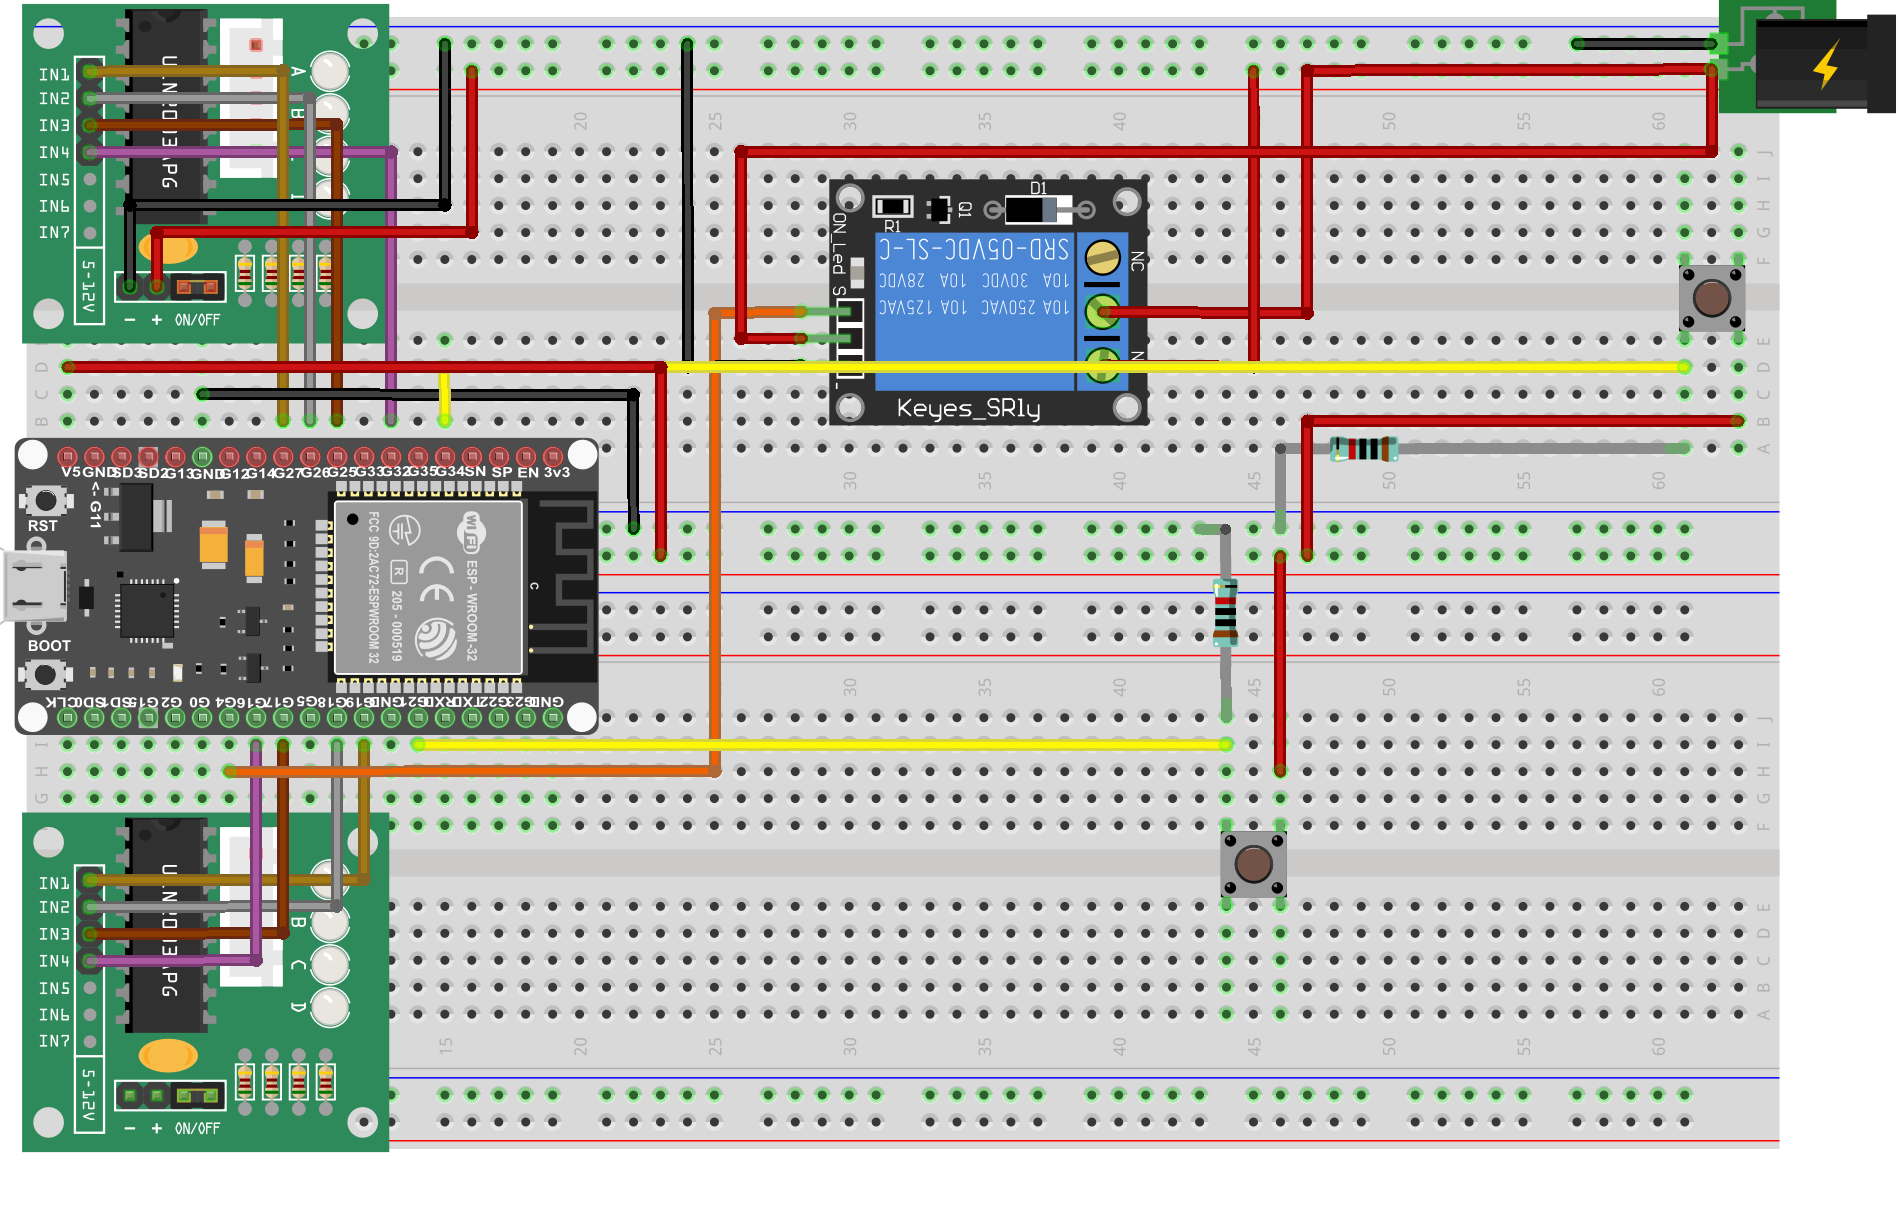
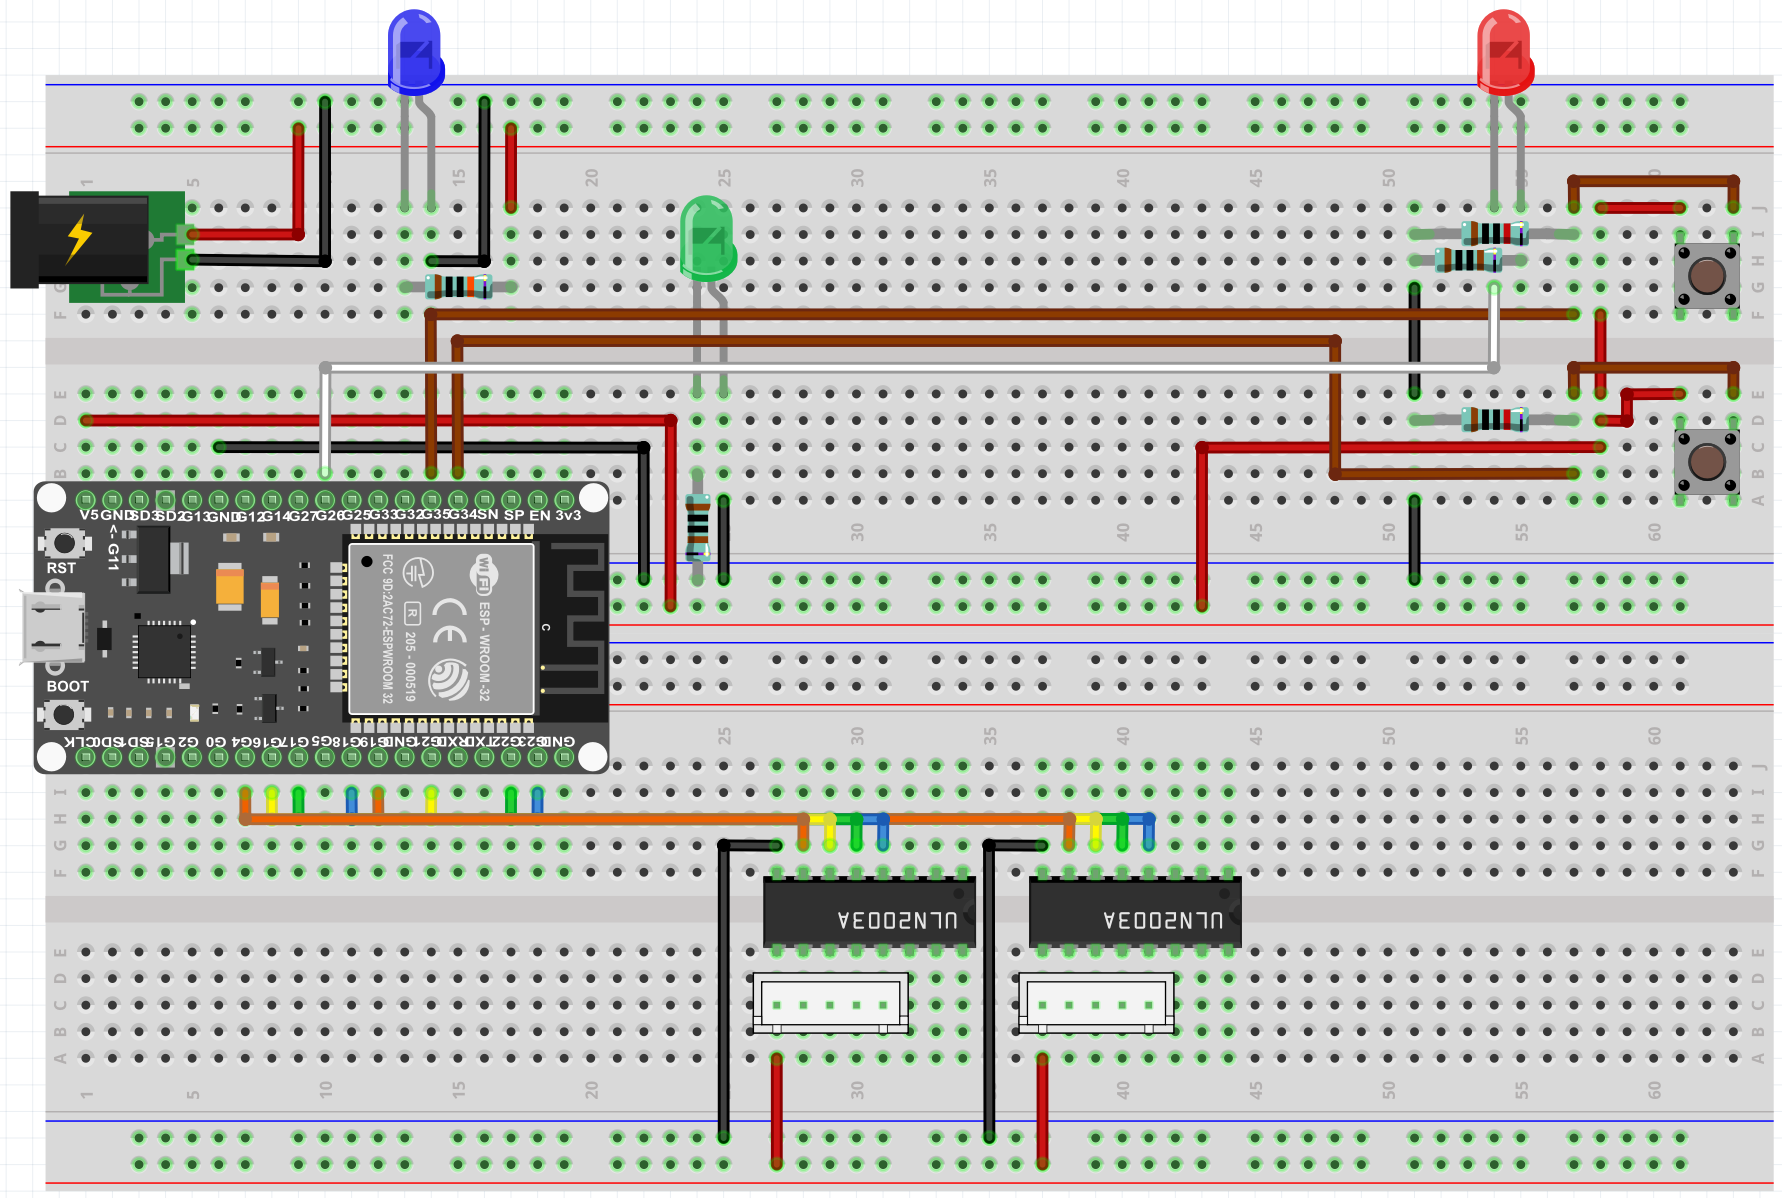
Updated Readme

diff --git a/README.md b/README.md
@@ -1,10 +1,12 @@
 # Nail Braille
 
-## A novel approach to braille education
+![A novel approach to braille education](assets/Title%20Image.png)
 
 ### About
 
 Nail Braille is an innovative project aimed at revolutionizing the way people learn and interact with Braille. This project uses affordable components and 3D-printed parts to create a unique and effective learning tool.
+
+This project earned the Platinum Award for Innovation at the 2023 Canada Wide Science Fair. For more information, visit the project page [here](https://projectboard.world/ysc/project/nail-braille-a-novel-approach-towards-braille-education-gnzdel).
 
 ### Overview
 
@@ -24,10 +26,12 @@ Nail Braille is an innovative project aimed at revolutionizing the way people le
 - 2 Breadboards
 - 1 ESP32 Dev board
 - 2 Buttons
-- 1 Relay
-- 2 28BYJ-48 Stepper motors and their controllers (ULN2003)
+- 3 LEDs (Red, Green, Blue)
+- 1 100K Ohm resistor
+- 2 10K Ohm resistors
+- 2 1K Ohm resistors
+- 2 28BYJ-48 Stepper motors and their controllers (ULN2003A)
 - Male to male jumper wires
-- Male to female jumper wires
 - 12v DC power supply
 - DC female plug
 - USB-A to micro-USB cable
@@ -45,20 +49,18 @@ Wire the components as shown below.
 
 ![Wiring Diagram](assets/Wiring.png)
 
-
 #### Arduino
 
 1. Flash your microcontroller of choice with the sketch found in `microcontroller/Braille`
 
-*Note: Your microcontroller must be Arduino compatible*
+_Note: Your microcontroller must be Arduino compatible_
 
 #### Web Interface
 
 1. 3D print the Braille disks and base found in the `/models` directory.
 2. Wire the components according to the diagram below.
 3. Place the disks on the motors and the motors in the base.
-4. Connect the motors to their respective motor controllers.
-
+4. Connect the motors to the motor controllers.
 
 ### Installation
 
@@ -66,6 +68,8 @@ Wire the components as shown below.
 # Clone the repository
 git clone https://github.com/Moulik-Budhiraja/Nail-Braille.git
 ```
+
+_Change line 4 of `server/index.ts` to the correct serial port for your Arduino._
 
 In individual terminal instances:
 
